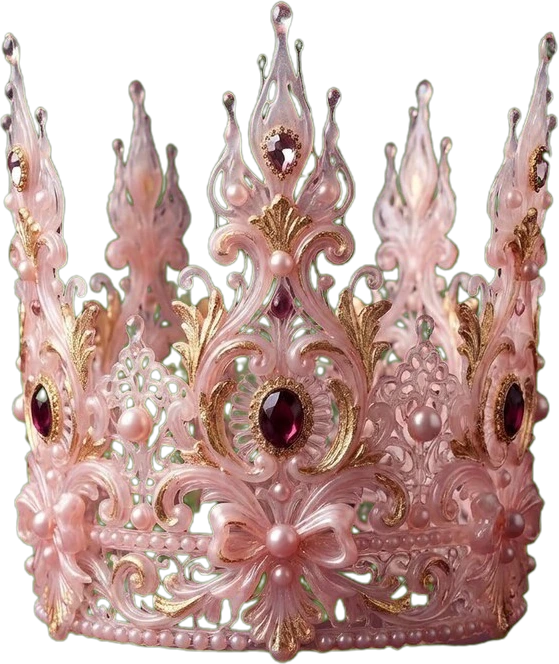
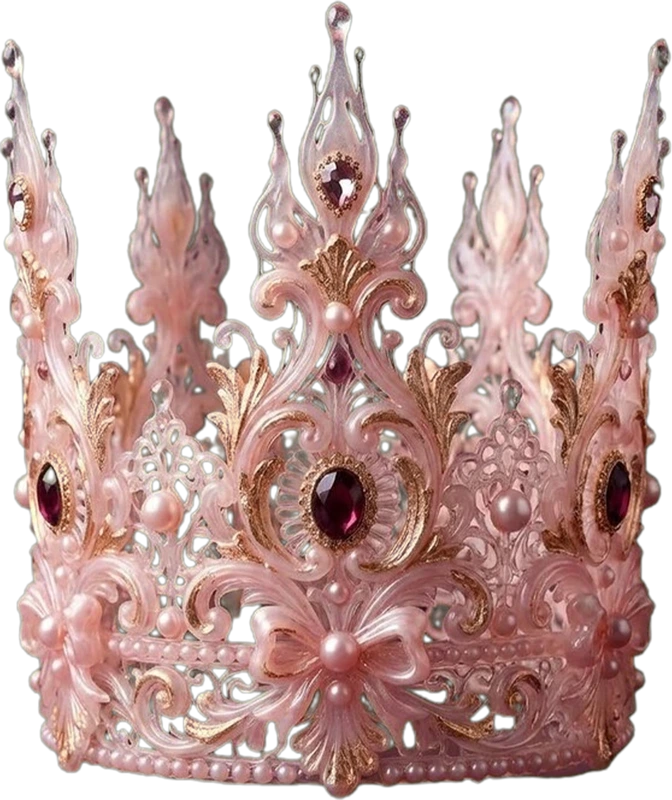
Coroa em alta qualidade enviada pelo Daniel
Claude-Session: https://claude.ai/code/session_01TSKXYpFVNA2GHbmrVgxUKd

diff --git a/index.html b/index.html
@@ -399,7 +399,7 @@ const CAST=[
 const PEDRA={paizinho:"assets/paizinho-pedra.webp",peter:"assets/peter-pedra.webp",rhanyane:"assets/rhanyane-pedra.webp"}; /* eliminadas petrificadas no elenco */
 /* coroa de cola quente 3D na cabeça de quem lidera · x/y = topo da cabeça em % do retrato */
 const CABECA={aysha:[45,12],barbara:[47,4],breia:[48,3],gabriel:[52,3],jheny:[45,3],latyffa:[48,3],matthel:[45,10],peter:[38,3],rhanyane:[45,5],paizinho:[47,3],sttefone:[47,4],talitah:[50,12]};
-const coroaEm=id=>{const [x,y]=CABECA[id]||[50,4];return `<span class="coroa3d" style="left:${x}%;top:${y}%" aria-hidden="true"><img src="assets/coroa.webp" alt=""><i></i><i></i><i></i></span>`};
+const coroaEm=id=>{const [x,y]=CABECA[id]||[50,4];return `<span class="coroa3d" style="left:${x}%;top:${y}%" aria-hidden="true"><img src="assets/coroa.webp?v=2" alt=""><i></i><i></i><i></i></span>`};
 const PHOTOS={ /* retrato: capa (com moldura já aplicada) · icone: avatar redondo do ranking */
  aysha:{retrato:"assets/aysha-retrato.webp?v=2",icone:"assets/aysha-icone.webp?v=2"},
  barbara:{retrato:"assets/barbara-retrato.webp",icone:"assets/barbara-icone.webp"},
